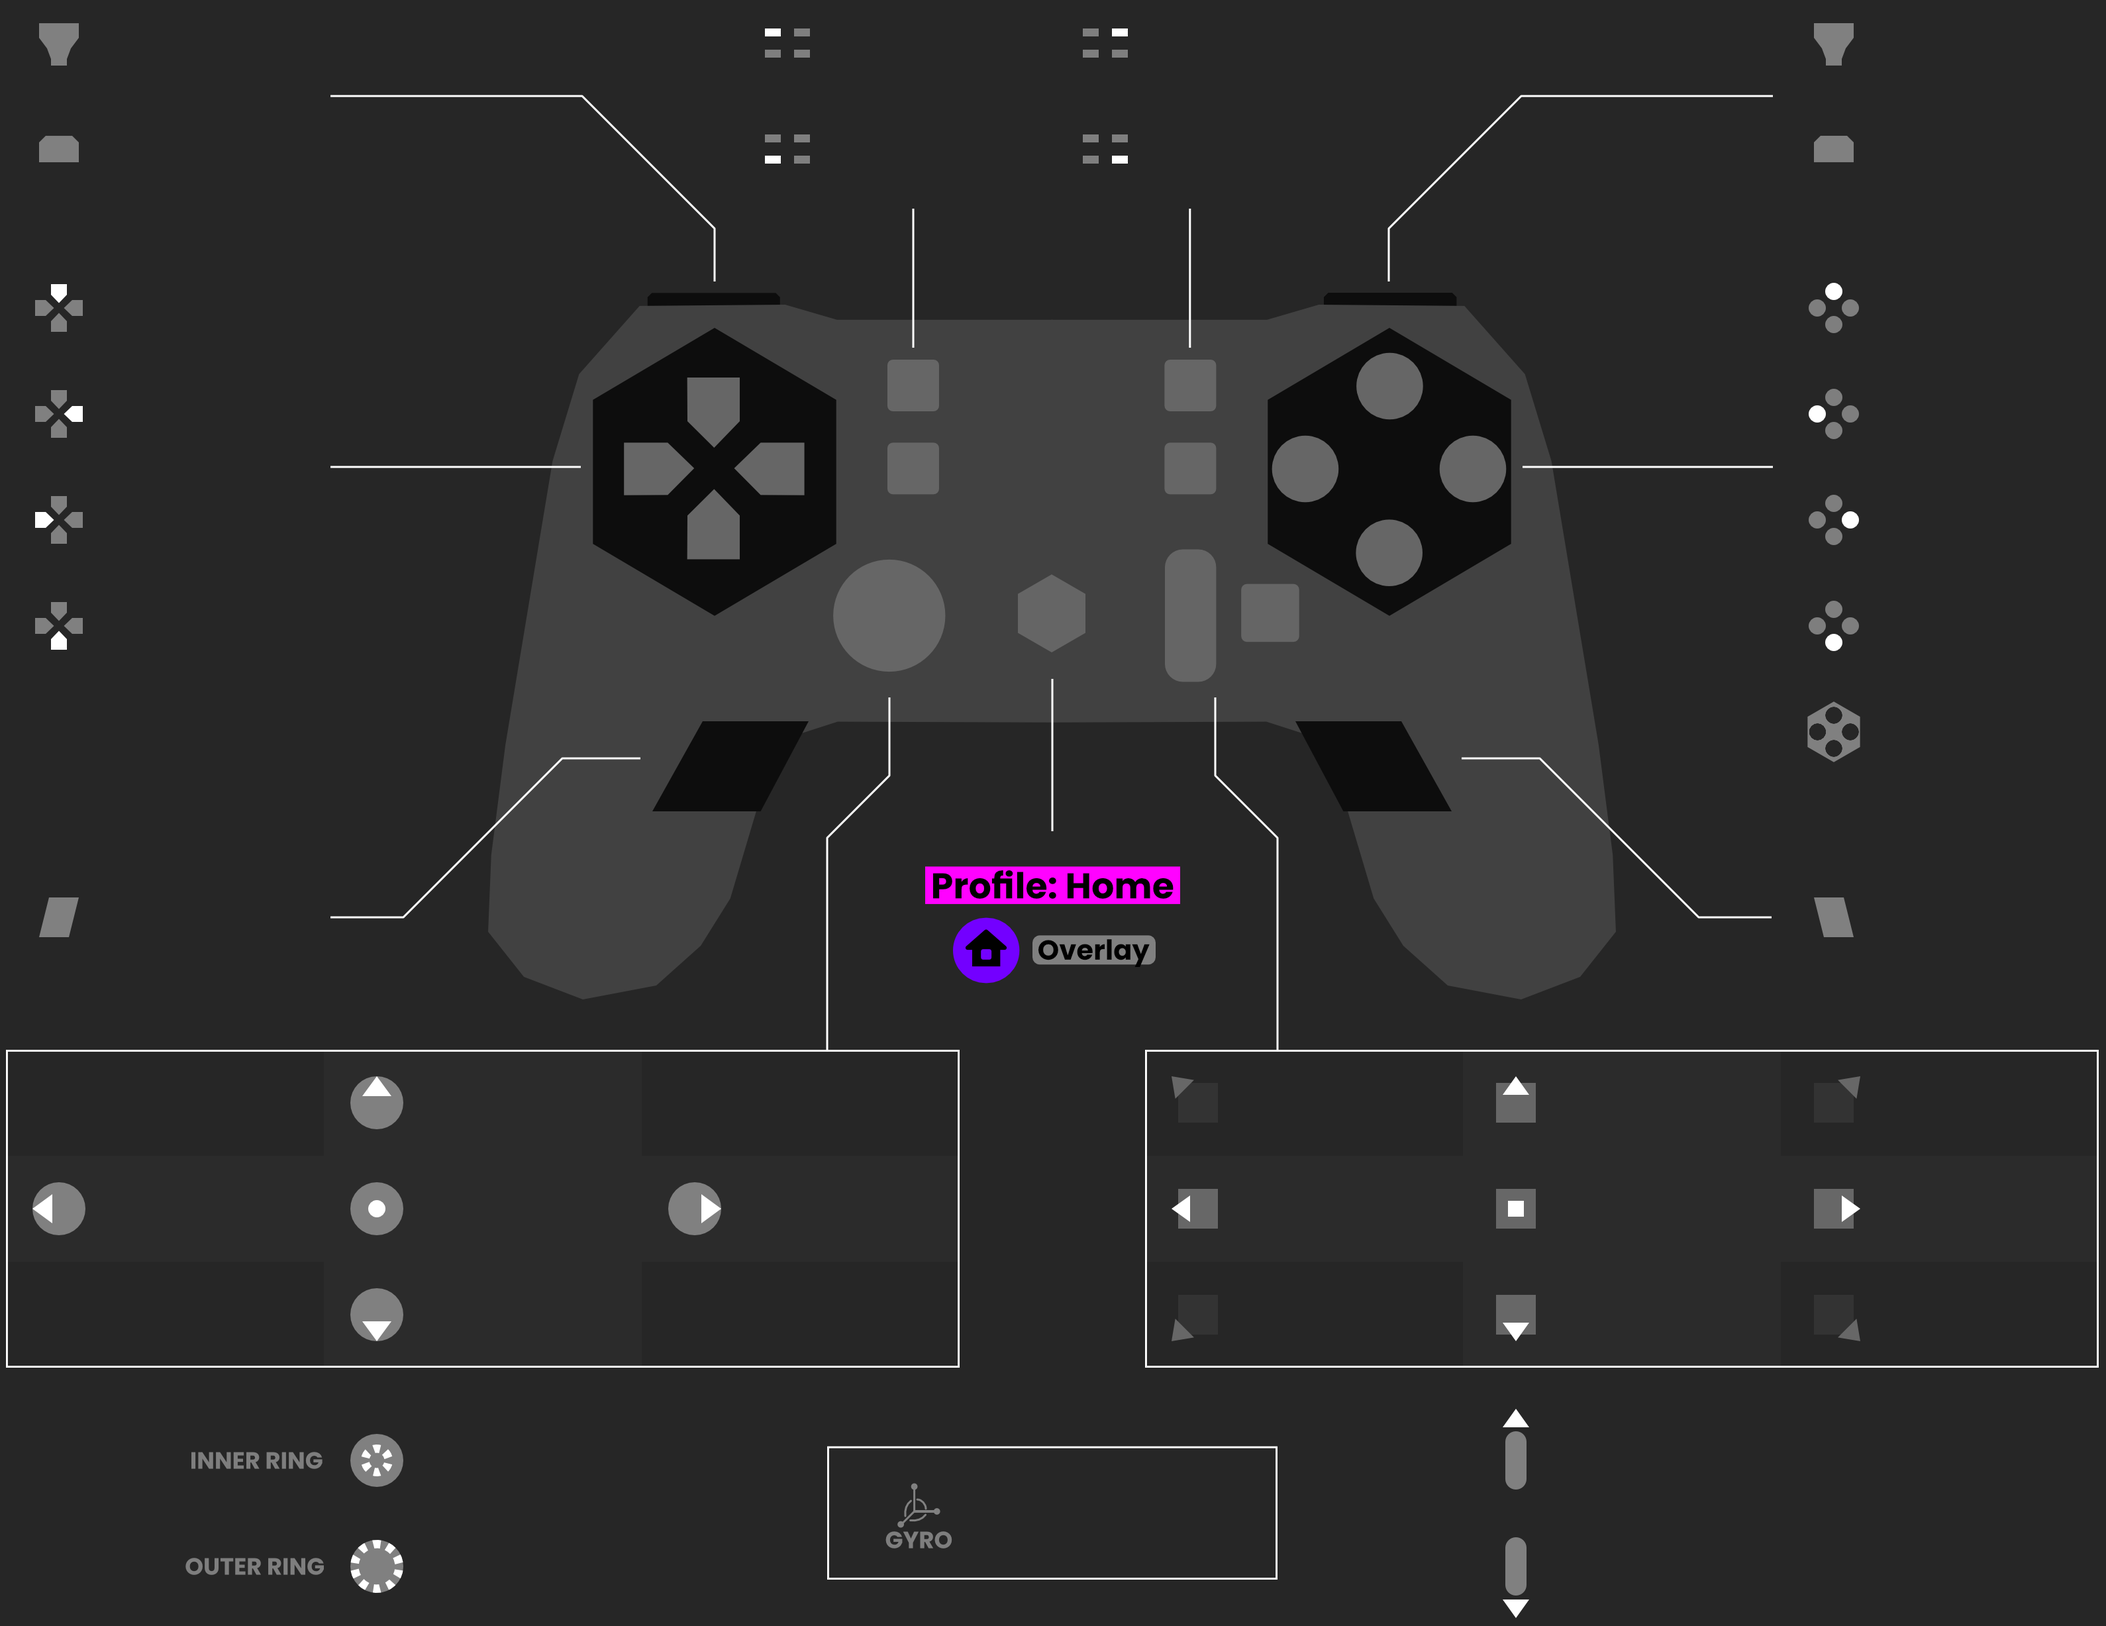
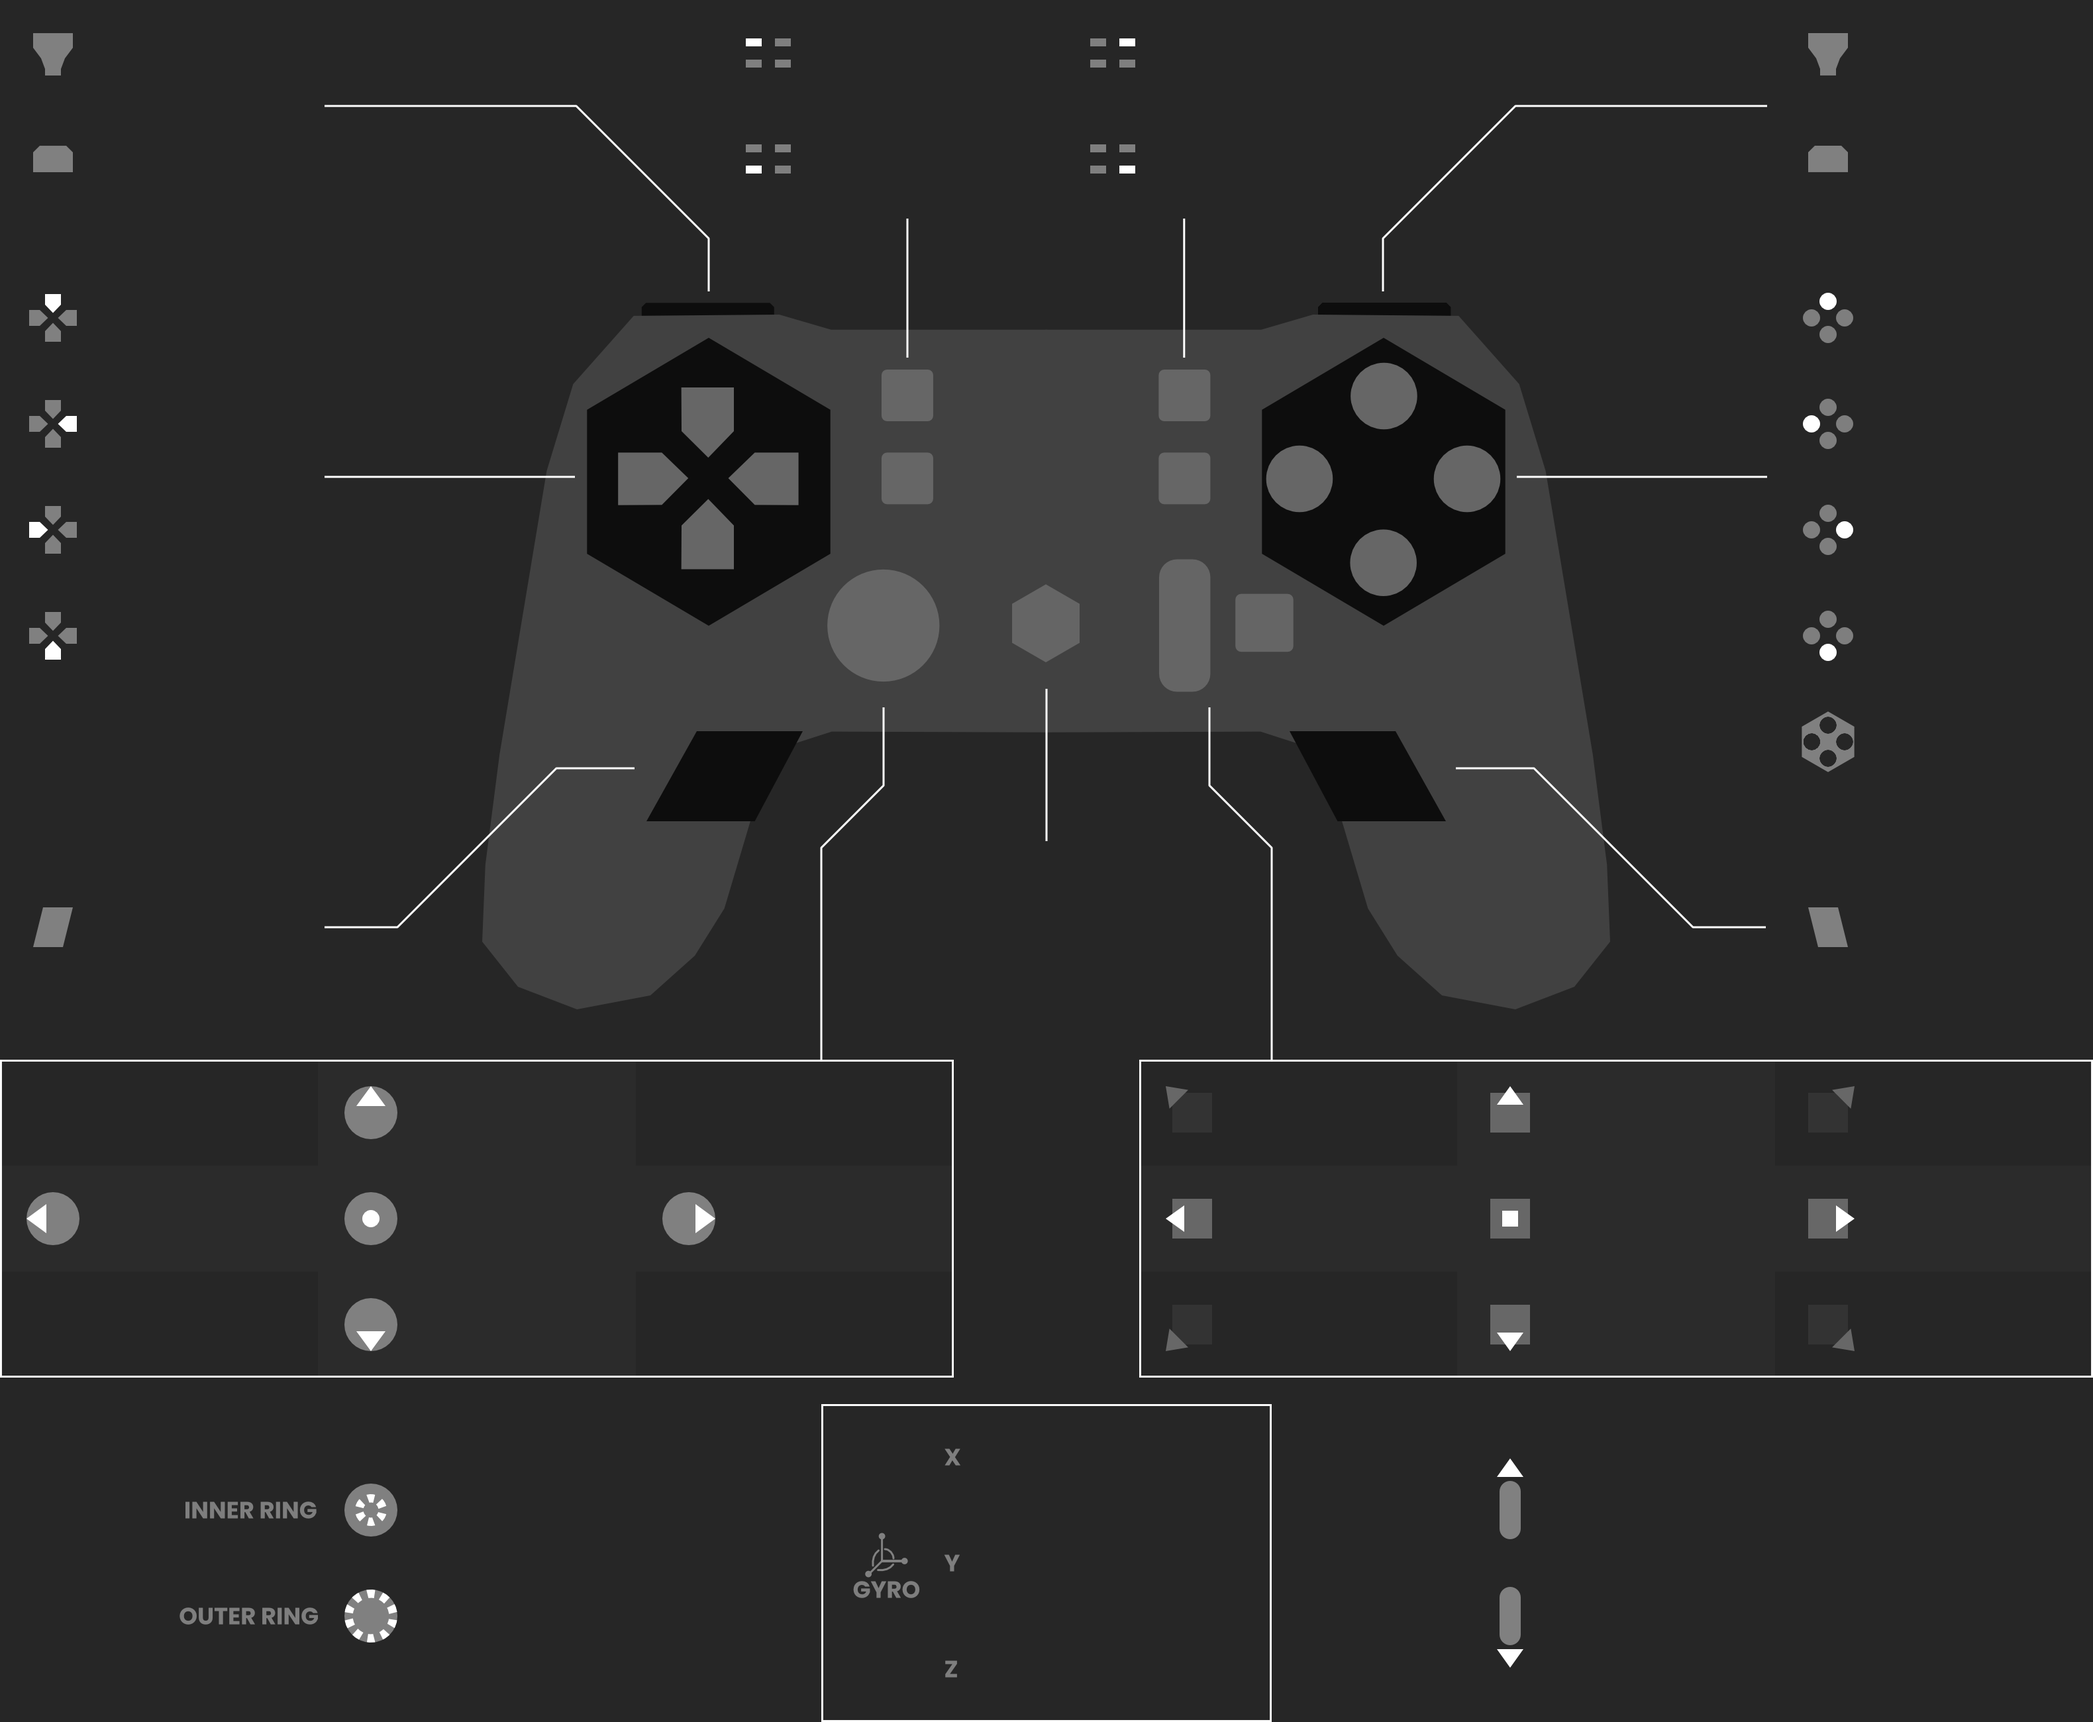
More accurate grid background, Added dhat

diff --git a/src/services/profiles.ts b/src/services/profiles.ts
@@ -34,54 +34,44 @@ export class ProfileService {
     }
   }
 
-  parse_button(section: SectionIndex, ctrl: CtrlProfileShare) {
-    const v = ctrl.values
-    return new Button(
-      section,
-      v[0],                      // Mode.
-      Array.from(v.slice(1,5)),  // Actions primary.
-      Array.from(v.slice(5,9)),  // Actions secondary.
-    )
-  }
-
-  async getProfile(index: number) {
-    let a =          await this.webusb.getSection(index, SectionIndex.A)
-    let b =          await this.webusb.getSection(index, SectionIndex.B)
-    let x =          await this.webusb.getSection(index, SectionIndex.X)
-    let y =          await this.webusb.getSection(index, SectionIndex.Y)
-    let dpad_left =  await this.webusb.getSection(index, SectionIndex.DPAD_LEFT)
-    let dpad_right = await this.webusb.getSection(index, SectionIndex.DPAD_RIGHT)
-    let dpad_up =    await this.webusb.getSection(index, SectionIndex.DPAD_UP)
-    let dpad_down =  await this.webusb.getSection(index, SectionIndex.DPAD_DOWN)
-    let select_1 =   await this.webusb.getSection(index, SectionIndex.SELECT_1)
-    let select_2 =   await this.webusb.getSection(index, SectionIndex.SELECT_2)
-    let start_1 =    await this.webusb.getSection(index, SectionIndex.START_1)
-    let start_2 =    await this.webusb.getSection(index, SectionIndex.START_2)
-    let l1 =         await this.webusb.getSection(index, SectionIndex.L1)
-    let l2 =         await this.webusb.getSection(index, SectionIndex.L2)
-    let l4 =         await this.webusb.getSection(index, SectionIndex.L4)
-    let r1 =         await this.webusb.getSection(index, SectionIndex.R1)
-    let r2 =         await this.webusb.getSection(index, SectionIndex.R2)
-    let r4 =         await this.webusb.getSection(index, SectionIndex.R4)
-    this.profiles[index].buttons.push(
-      this.parse_button(SectionIndex.A, a),
-      this.parse_button(SectionIndex.B, b),
-      this.parse_button(SectionIndex.X, x),
-      this.parse_button(SectionIndex.Y, y),
-      this.parse_button(SectionIndex.DPAD_LEFT, dpad_left),
-      this.parse_button(SectionIndex.DPAD_RIGHT, dpad_right),
-      this.parse_button(SectionIndex.DPAD_UP, dpad_up),
-      this.parse_button(SectionIndex.DPAD_DOWN, dpad_down),
-      this.parse_button(SectionIndex.SELECT_1, select_1),
-      this.parse_button(SectionIndex.SELECT_2, select_2),
-      this.parse_button(SectionIndex.START_1, start_1),
-      this.parse_button(SectionIndex.START_2, start_2),
-      this.parse_button(SectionIndex.L1, l1),
-      this.parse_button(SectionIndex.L2, l2),
-      this.parse_button(SectionIndex.L4, l4),
-      this.parse_button(SectionIndex.R1, r1),
-      this.parse_button(SectionIndex.R2, r2),
-      this.parse_button(SectionIndex.R4, r4),
-    )
+  async getProfile(profileIndex: number) {
+    const parse = async (sectionIndex: SectionIndex) => {
+      let section = await this.webusb.getSection(profileIndex, sectionIndex)
+      let button = new Button(
+        sectionIndex,
+        section.values[0],                      // Mode.
+        Array.from(section.values.slice(1,5)),  // Actions primary.
+        Array.from(section.values.slice(5,9)),  // Actions secondary.
+      )
+      this.profiles[profileIndex].buttons.push(button)
+      console.log(button)
+    }
+    await parse(SectionIndex.A)
+    await parse(SectionIndex.B)
+    await parse(SectionIndex.X)
+    await parse(SectionIndex.Y)
+    await parse(SectionIndex.DPAD_LEFT)
+    await parse(SectionIndex.DPAD_RIGHT)
+    await parse(SectionIndex.DPAD_UP)
+    await parse(SectionIndex.DPAD_DOWN)
+    await parse(SectionIndex.SELECT_1)
+    await parse(SectionIndex.SELECT_2)
+    await parse(SectionIndex.START_1)
+    await parse(SectionIndex.START_2)
+    await parse(SectionIndex.L1)
+    await parse(SectionIndex.L2)
+    await parse(SectionIndex.L4)
+    await parse(SectionIndex.R1)
+    await parse(SectionIndex.R2)
+    await parse(SectionIndex.R4)
+    await parse(SectionIndex.DHAT_LEFT)
+    await parse(SectionIndex.DHAT_RIGHT)
+    await parse(SectionIndex.DHAT_UP)
+    await parse(SectionIndex.DHAT_DOWN)
+    await parse(SectionIndex.DHAT_UL)
+    await parse(SectionIndex.DHAT_UR)
+    await parse(SectionIndex.DHAT_DL)
+    await parse(SectionIndex.DHAT_DR)
+    await parse(SectionIndex.DHAT_PUSH)
   }
 }

diff --git a/src/components/profile/profile.ts b/src/components/profile/profile.ts
@@ -49,24 +49,33 @@ export class ProfileComponent {
 
   getMappings() {
     const table = [
-      {section: SectionIndex.L2,         column: 1,      row: 1 },
-      {section: SectionIndex.L1,         column: 1,      row: 2 },
-      {section: SectionIndex.DPAD_UP,    column: 1,      row: 4 },
-      {section: SectionIndex.DPAD_RIGHT, column: 1,      row: 5 },
-      {section: SectionIndex.DPAD_LEFT,  column: 1,      row: 6 },
-      {section: SectionIndex.DPAD_DOWN,  column: 1,      row: 7 },
-      {section: SectionIndex.L4,         column: 1,      row: 9 },
-      {section: SectionIndex.SELECT_1,   column: '4/7',  row: 1 },
-      {section: SectionIndex.SELECT_2,   column: '4/7',  row: 2 },
-      {section: SectionIndex.START_1,    column: '7/10', row: 1 },
-      {section: SectionIndex.START_2,    column: '7/10', row: 2 },
-      {section: SectionIndex.R2,         column: 12,     row: 1 },
-      {section: SectionIndex.R1,         column: 12,     row: 2 },
-      {section: SectionIndex.Y,          column: 12,     row: 4 },
-      {section: SectionIndex.X,          column: 12,     row: 5 },
-      {section: SectionIndex.B,          column: 12,     row: 6 },
-      {section: SectionIndex.A,          column: 12,     row: 7 },
-      {section: SectionIndex.R4,         column: 12,     row: 9 },
+      {section: SectionIndex.L2,         column: 1,       row: 1 },
+      {section: SectionIndex.L1,         column: 1,       row: 2 },
+      {section: SectionIndex.DPAD_UP,    column: 1,       row: 4 },
+      {section: SectionIndex.DPAD_RIGHT, column: 1,       row: 5 },
+      {section: SectionIndex.DPAD_LEFT,  column: 1,       row: 6 },
+      {section: SectionIndex.DPAD_DOWN,  column: 1,       row: 7 },
+      {section: SectionIndex.L4,         column: 1,       row: 9 },
+      {section: SectionIndex.SELECT_1,   column: '4/8',   row: 1 },
+      {section: SectionIndex.SELECT_2,   column: '4/8',   row: 2 },
+      {section: SectionIndex.START_1,    column: '9/13',  row: 1 },
+      {section: SectionIndex.START_2,    column: '9/13',  row: 2 },
+      {section: SectionIndex.R2,         column: 15,      row: 1 },
+      {section: SectionIndex.R1,         column: 15,      row: 2 },
+      {section: SectionIndex.Y,          column: 15,      row: 4 },
+      {section: SectionIndex.X,          column: 15,      row: 5 },
+      {section: SectionIndex.B,          column: 15,      row: 6 },
+      {section: SectionIndex.A,          column: 15,      row: 7 },
+      {section: SectionIndex.R4,         column: 15,      row: 9 },
+      {section: SectionIndex.DHAT_LEFT,  column: '10/14', row: 12 },
+      {section: SectionIndex.DHAT_RIGHT, column: 15,      row: 12 },
+      {section: SectionIndex.DHAT_UP,    column: 14,      row: 11 },
+      {section: SectionIndex.DHAT_DOWN,  column: 14,      row: 13 },
+      {section: SectionIndex.DHAT_UL,    column: '10/14', row: 11 },
+      {section: SectionIndex.DHAT_UR,    column: 15,      row: 11 },
+      {section: SectionIndex.DHAT_DL,    column: '10/14', row: 13 },
+      {section: SectionIndex.DHAT_DR,    column: 15,      row: 13 },
+      {section: SectionIndex.DHAT_PUSH,  column: 14,      row: 12 },
     ]
     return this.profileService.profiles[this.profileIndex].buttons
       .map((button: Button) => {

diff --git a/src/components/button/button.ts b/src/components/button/button.ts
@@ -23,6 +23,7 @@ export class ButtonComponent {
     if (label == 'ESCAPE') return 'Esc'
     if (label == 'TAB') return 'Tab'
     if (label == 'DELETE') return 'Del'
+    if (label == 'BACKQUOTE') return '~'
     // Modifiers.
     if (['LEFT_CONTROL', 'RIGHT_CONTROL'].includes(label)) label = 'Ctrl'
     if (['LEFT_SHIFT',   'RIGHT_SHIFT']  .includes(label)) label = 'Shift'
@@ -31,14 +32,23 @@ export class ButtonComponent {
     // Proc.
     if (label == 'PROC_BOOTSEL') return 'Boot mode'
     if (label == 'PROC_CALIBRATE') return 'Calibrate'
+    if (label == 'PROC_TUNE_OS') return 'OS'
+    if (label == 'PROC_TUNE_TOUCH_THRESHOLD') return 'Touch'
+    if (label == 'PROC_TUNE_SENSITIVITY') return 'Mouse'
+    if (label == 'PROC_TUNE_DEADZONE') return 'DZ'
     if (label.startsWith('PROC_PROFILE')) label = label.split('_')[2]
+    if (label.startsWith('PROC_ROTARY_MODE')) label = label.split('_')[3]
     if (label.startsWith('PROC')) label = label.replace('PROC_', '')
     // Gamepad.
-    if (label.startsWith('GAMEPAD_AXIS')) label = label.split('_')[2]
     label = label.replace('GAMEPAD_L1', 'LB')
     label = label.replace('GAMEPAD_R1', 'RB')
     label = label.replace('GAMEPAD_L3', 'LS')
     label = label.replace('GAMEPAD_R3', 'RS')
+    if (label.startsWith('GAMEPAD_AXIS')) {
+      label = label.replace('GAMEPAD_AXIS_', '')
+      if (label.endsWith('NEG')) label = label.replace('_NEG', '-')
+      else label += '+'
+    }
     label = label.replace('GAMEPAD_', '')
     return label
   }
@@ -51,8 +61,12 @@ export class ButtonComponent {
       icon = 'sports_esports'
       showLabel = true
     }
-    if (['GAMEPAD_AXIS_LZ', 'GAMEPAD_AXIS_RZ'].includes(hid)) {
-      icon = 'height'
+    if (hid.startsWith('PROC_TUNE')) {
+      icon = 'settings'
+      showLabel = true
+    }
+    if (hid.startsWith('PROC_ROTARY_MODE')) {
+      icon = 'screen_record'
       showLabel = true
     }
     if (hid == 'KEY_SPACE') icon = 'space_bar'

diff --git a/src/components/profile/profile.sass b/src/components/profile/profile.sass
@@ -19,20 +19,27 @@
         .crop_h
             display: flex
             flex-direction: column
-            aspect-ratio: 3180 / 2455
+            aspect-ratio: 3160 / 2600
             max-width: 99% !important
             .crop_v
-                aspect-ratio: 3180 / 2455
+                aspect-ratio: 3160 / 2600
                 background-image: url("/assets/profile_template.png")
                 background-position: top
                 background-repeat: no-repeat
                 background-size: contain
                 cursor: pointer
                 display: grid
-                $v: 6.55%
-                $h: 15.3%
-                grid-template-rows: 6% $v 3.0% $v $v $v $v 11.3% $v
-                grid-template-columns: $h $h 4.6% 7% 3.3% 4.55% 4.55% 3.3% 7% 4.6% $h $h
+                $v: calc((100% / 2600) * 40)
+                $h: calc((100% / 3160) * 40)
+                $v2: calc($v * 2)
+                $v3: calc($v * 3)
+                $v4: calc($v * 4)
+                $v7: calc($v * 7)
+                $h3: calc($h * 3)
+                $h9: calc($h * 9)
+                $h12: calc($h * 12)
+                grid-template-rows: $v4 $v4 $v2 $v4 $v4 $v4 $v4 $v7 $v4 $v3 $v4 $v4 $v4
+                grid-template-columns: $h12 $h12 $h3 $h3 $h3 $h3 $h3 $h $h3 $h3 $h3 $h3 $h3 $h12 $h12
                 &>div
                     padding-left: 30%
 

diff --git a/src/lib/ctrl.ts b/src/lib/ctrl.ts
@@ -33,7 +33,8 @@ export enum ConfigIndex {
 }
 
 export enum SectionIndex {
-    A = 10,
+    NAME,
+    A,
     B,
     X,
     Y,
@@ -51,7 +52,15 @@ export enum SectionIndex {
     R1,
     R2,
     R4,
-
+    DHAT_LEFT = 31,
+    DHAT_RIGHT,
+    DHAT_UP,
+    DHAT_DOWN,
+    DHAT_UL,
+    DHAT_UR,
+    DHAT_DL,
+    DHAT_DR,
+    DHAT_PUSH,
 }
 
 export class Ctrl {
